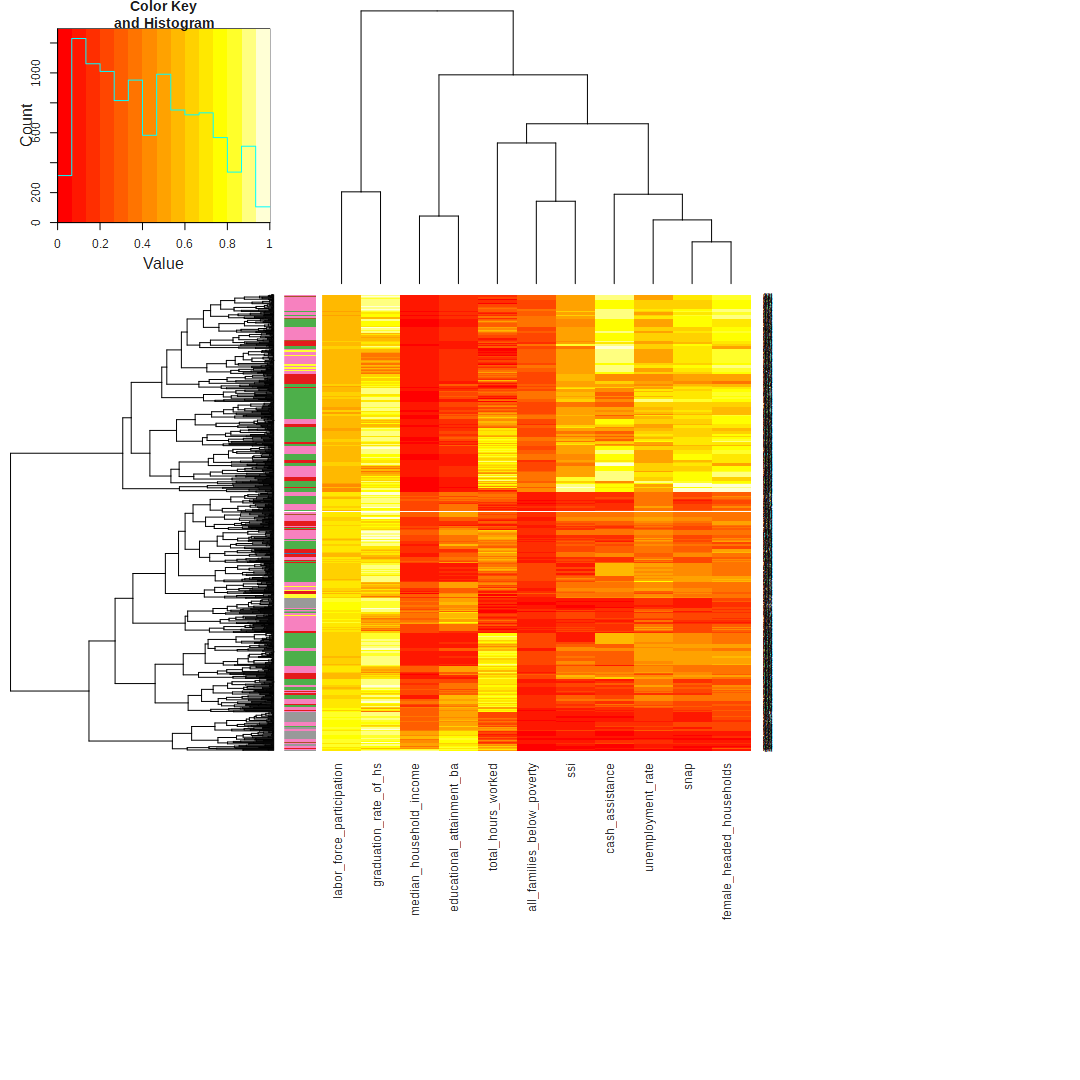
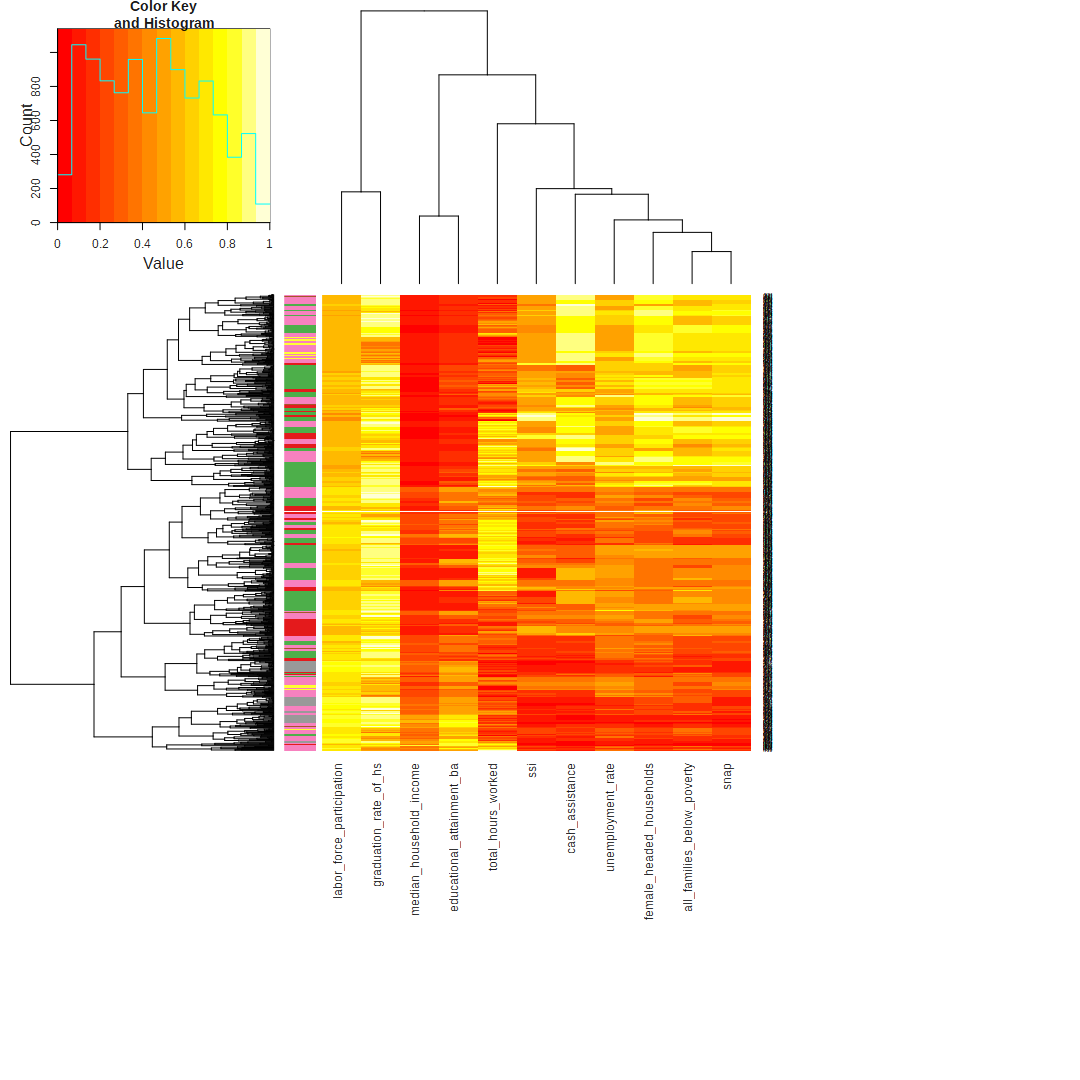
Added hours worked/income plot

diff --git a/README.md b/README.md
@@ -259,6 +259,7 @@ dat_scaled$unemployment_rate        = rescale(dat_scaled$unemployment_rate)
 dat_scaled$female_headed_households = rescale(dat_scaled$female_headed_households)
 dat_scaled$cash_assistance          = rescale(dat_scaled$cash_assistance)
 dat_scaled$snap                     = rescale(dat_scaled$snap)
+dat_scaled$all_families_below_poverty = rescale(dat_scaled$all_families_below_poverty)
 
 # numeric fields only
 #mat = dat_short_complete %>% select(-intern_status)
@@ -269,3 +270,14 @@ heatmap.2(as.matrix(dat_scaled %>% select(-intern_status)),
 ```
 
 ![](README_files/figure-markdown_github/student_vis-1.png)
+
+#### Intern status
+
+``` r
+library(ggplot2)
+ggplot(dat_short_complete, aes(total_hours_worked, median_household_income,
+                               group=intern_status), color=intern_status) +
+    geom_point(aes(color=intern_status))
+```
+
+![](README_files/figure-markdown_github/inter_status-1.png)
